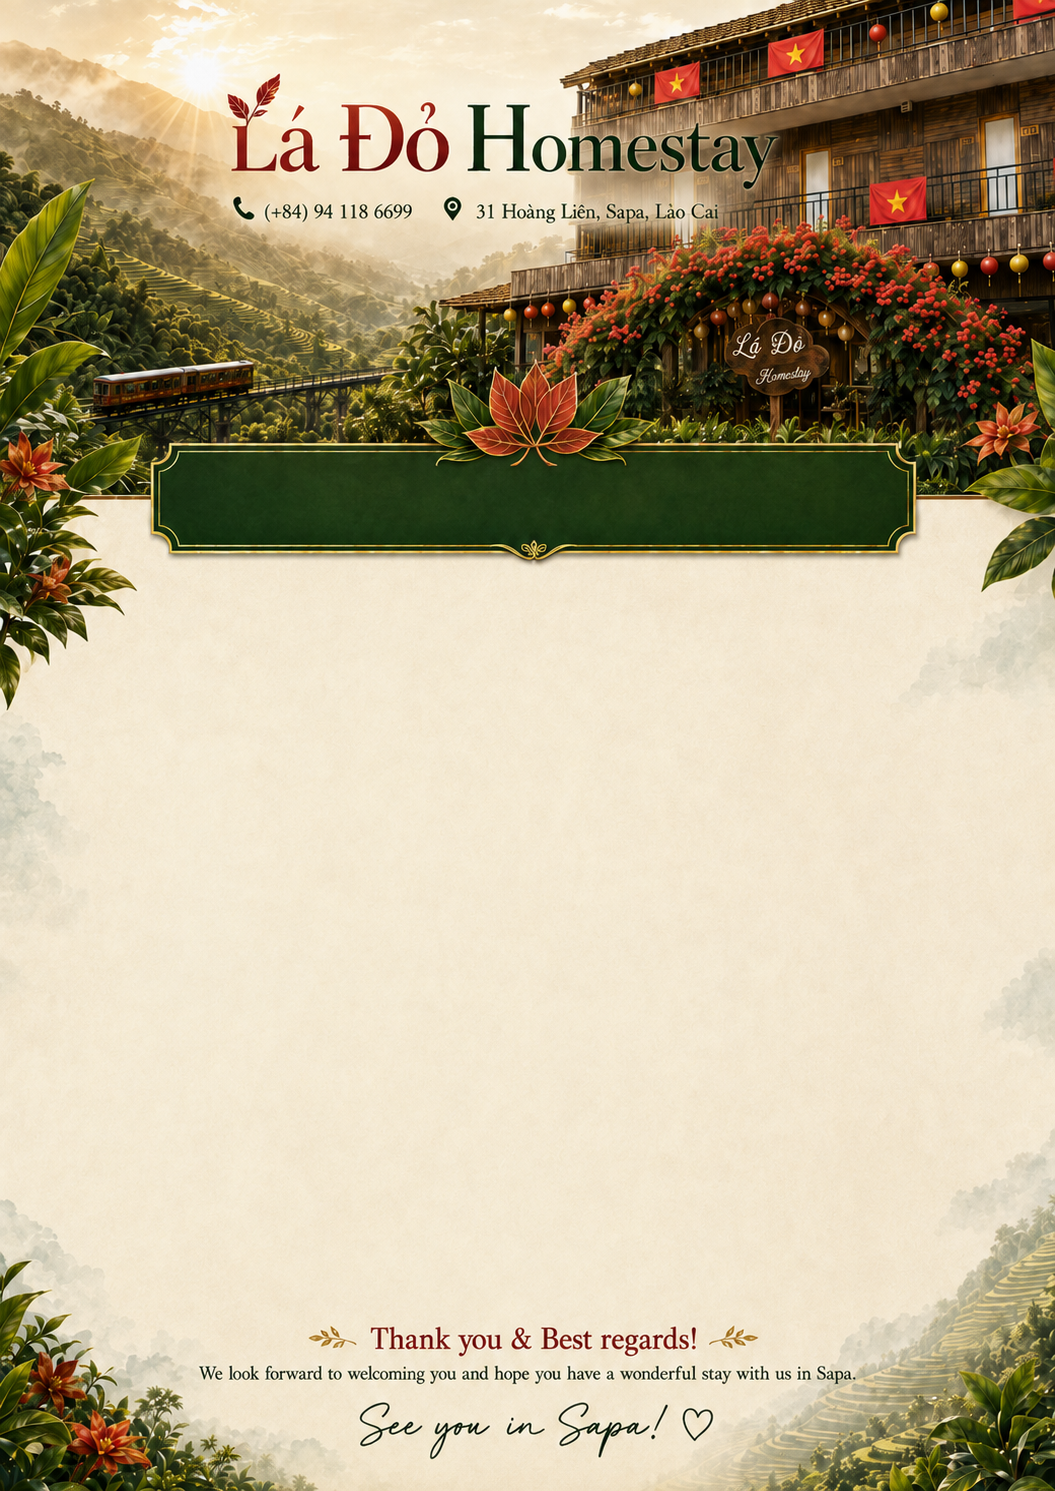
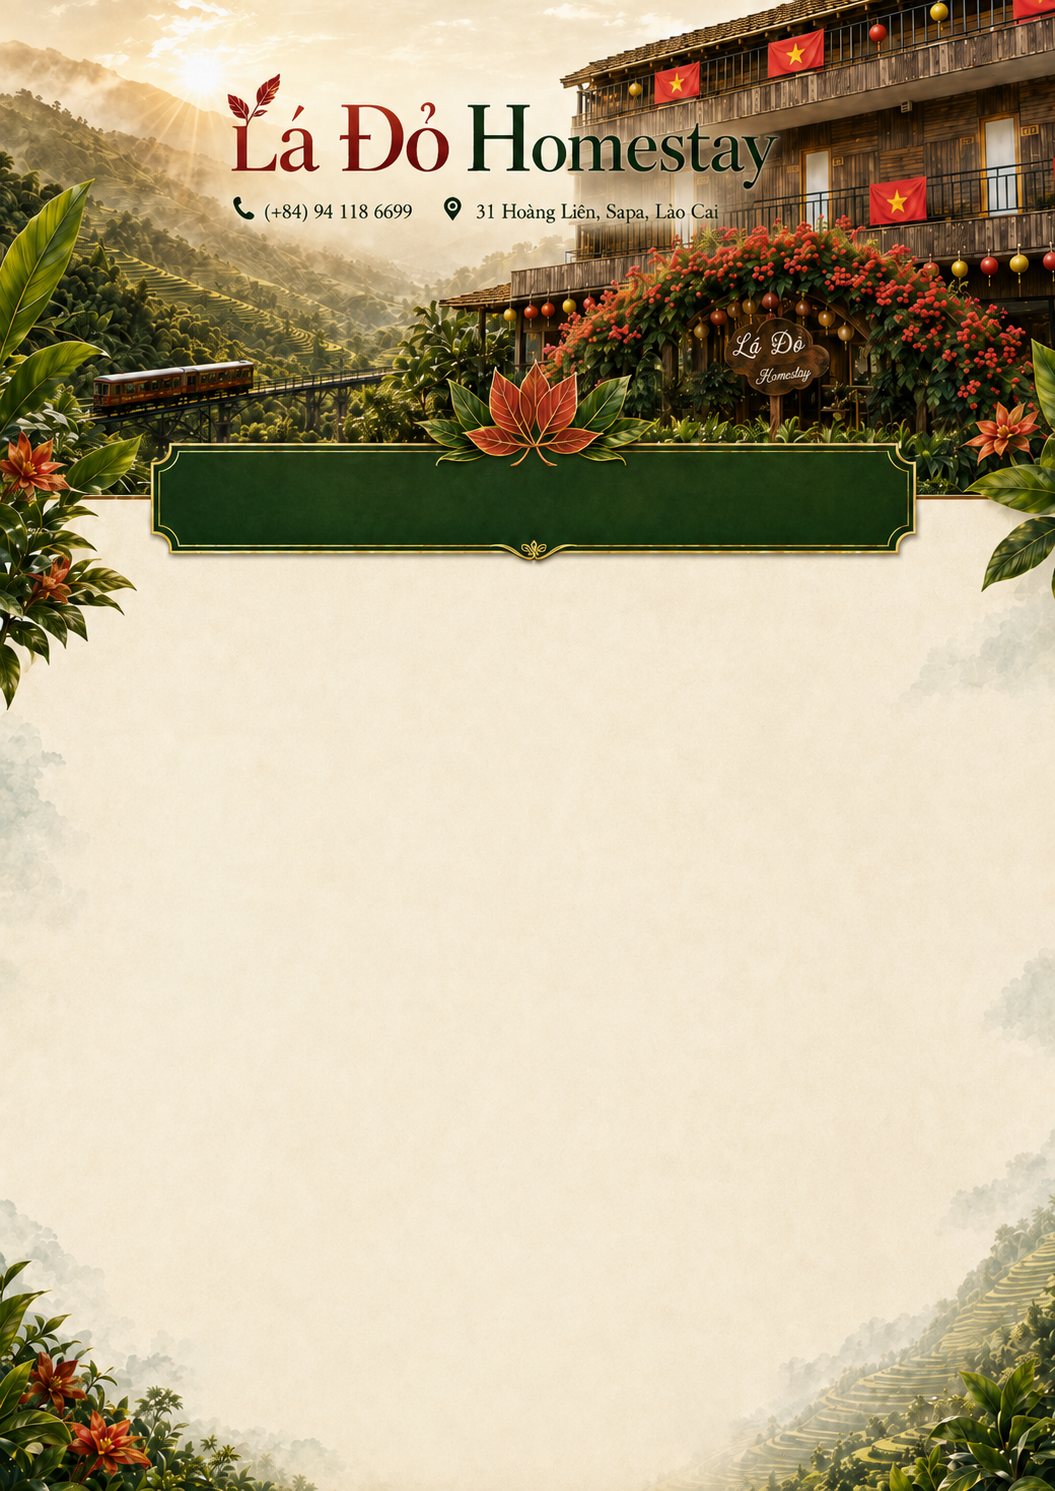
feat: add dynamic booking footer layout

Changed region(s): [[0.182, 0.8947, 0.819, 0.9256], [0.3336, 0.9564, 0.455, 0.9873], [0.546, 0.9564, 0.6066, 0.9873]]

diff --git a/style.css b/style.css
@@ -36,8 +36,12 @@ button { padding: 8px; border: 0; border-radius: 5px; background: var(--green); 
   overflow: hidden;
   background: var(--paper);
   box-shadow: 0 12px 35px #52605255;
+  --lower-shift: 0px;
+  --details-body-height: 26px;
+  --footer-width: 38%;
 }
 .template-bg { position: absolute; inset: 0; width: 100%; height: 100%; object-fit: fill; pointer-events: none; }
+.footer-artwork { position: absolute; top: auto; bottom: 1.5%; left: 50%; z-index: 3; width: var(--footer-width); max-width: none; transform: translateX(-50%); pointer-events: none; }
 .sheet-content { position: absolute; inset: 0; color: #13251a; font-family: "DM Serif Display", Georgia, serif; }
 .sheet-content > * { position: absolute; }
 .sheet-title { position: absolute; left: 14%; top: 31.6%; width: 72%; margin: 0; color: #fff; font-size: 33px; line-height: 1; letter-spacing: .04em; text-align: center; }
@@ -47,8 +51,8 @@ button { padding: 8px; border: 0; border-radius: 5px; background: var(--green); 
 .intro strong { font-weight: 700; overflow-wrap: anywhere; }
 .booking-section { position: absolute; left: 8%; top: 43.2%; width: 84%; }
 .details-section { position: absolute; left: 8%; top: 59.3%; width: 84%; }
-.summary-grid { position: absolute; left: 8%; top: 70.5%; width: 84%; }
-.conditions-section { position: absolute; left: 8%; top: 75.4%; width: 84%; height: 12.2%; overflow: hidden; }
+.summary-grid { position: absolute; left: 8%; top: calc(70.5% + var(--lower-shift)); width: 84%; }
+.conditions-section { position: absolute; left: 8%; top: calc(75.4% + var(--lower-shift)); width: 84%; height: 12.2%; overflow: hidden; }
 .section-heading { display: flex; align-items: center; gap: 10px; min-height: 32px; margin: 0 0 8px; color: var(--green); font-size: 17px; line-height: 1.1; letter-spacing: .025em; }
 .section-heading > span { display: inline-grid; flex: 0 0 30px; place-items: center; width: 30px; height: 30px; color: var(--gold); line-height: 0; }
 .section-heading > span svg { display: block; width: 27px; height: 27px; }
@@ -59,7 +63,7 @@ button { padding: 8px; border: 0; border-radius: 5px; background: var(--green); 
 .booking-field strong { display: -webkit-box; min-width: 0; max-height: 2.3em; margin-left: auto; padding-left: 5px; overflow: hidden; font-weight: 400; text-align: right; overflow-wrap: anywhere; -webkit-box-orient: vertical; -webkit-line-clamp: 2; }
 .details-table { width: 100%; border: 1.5px solid var(--gold); border-radius: 11px; border-spacing: 0; overflow: hidden; table-layout: fixed; font-size: 10px; }
 .details-table thead, .details-table tbody tr { display: table; width: 100%; border-spacing: 0; table-layout: fixed; }
-.details-table tbody { display: block; max-height: 52px; overflow: hidden; }
+.details-table tbody { display: block; max-height: var(--details-body-height); overflow: hidden; }
 .details-table tbody tr { height: 26px; }
 .details-table th { height: 37px; padding: 5px 2px; background: var(--green); color: #fff; font-weight: 400; line-height: 1.05; }
 .details-table th:nth-child(1), .details-table td:nth-child(1) { width: 8%; }

diff --git a/index.html b/index.html
@@ -41,6 +41,7 @@ Tea, coffee, and drinking water</textarea></label>
           <section class="details-section"><h2 class="section-heading"><span id="buildingIcon"></span>DETAILS</h2><table class="details-table"><thead><tr><th>No.</th><th>No. of<br>Rooms</th><th>Guest List</th><th>Room Type</th><th>Package</th><th>No. of<br>Guests</th><th>Room Rate<br>(VND)</th><th>Extra<br>Bed</th></tr></thead><tbody id="rows"></tbody></table></section>
           <section class="summary-grid"><div class="summary-card"><span id="totalIcon"></span><span>Total (VND):</span><strong id="total"></strong></div><div class="summary-card"><span id="walletIcon"></span><span class="summary-copy"><span>Deposit &amp; Payment:</span><span>Customer has deposited</span></span><strong id="deposit"></strong></div></section>
           <section class="conditions-section"><h2 class="section-heading"><span id="clipboardIcon"></span>PACKAGE &amp; BOOKING CONDITIONS</h2><div class="condition-grid"><div class="condition-row"><span id="servicesIcon"></span><span>Included Services</span><div id="services"></div></div><div class="condition-row"><span id="policyIcon"></span><span>Cancellation Policy</span><div id="policy"></div></div></div></section>
+          <img class="footer-artwork" src="assets/booking-footer-english.png" alt="Thank you and best regards">
         </div>
       </article>
     </section>

diff --git a/app.js b/app.js
@@ -78,6 +78,23 @@ function roomRate(value) {
   return Number.isFinite(number) ? number : 0;
 }
 
+function updateSheetGeometry() {
+  const roomCount = Math.max(1, rooms.length);
+  const rowHeight = 26;
+  const pageWidth = page.clientWidth || 760;
+  const pageHeight = page.clientHeight || 1074;
+  const lowerShift = Math.max(0, roomCount - 1) * rowHeight;
+  const detailsBodyHeight = roomCount * rowHeight;
+  const conditionsBottom = (0.754 * pageHeight) + lowerShift + (0.122 * pageHeight);
+  const availableFooterHeight = Math.max(0, pageHeight - conditionsBottom - (0.015 * pageHeight));
+  const footerHeightPerWidthPercent = (pageWidth / pageHeight) * (519 / 1254);
+  const footerWidth = Math.max(18, Math.min(72, (availableFooterHeight / pageHeight * 100) / footerHeightPerWidthPercent));
+
+  page.style.setProperty('--lower-shift', `${lowerShift}px`);
+  page.style.setProperty('--details-body-height', `${detailsBodyHeight}px`);
+  page.style.setProperty('--footer-width', `${footerWidth}%`);
+}
+
 function renderIcons() {
   const icons = {
     bookingIcon: 'calendar',
@@ -166,6 +183,7 @@ function updatePreview() {
     .map(line => `<span>• ${escapeHtml(line)}</span>`)
     .join('');
   document.querySelector('#policy').innerHTML = escapeHtml(values.policy);
+  updateSheetGeometry();
 }
 
 async function capturePage() {
